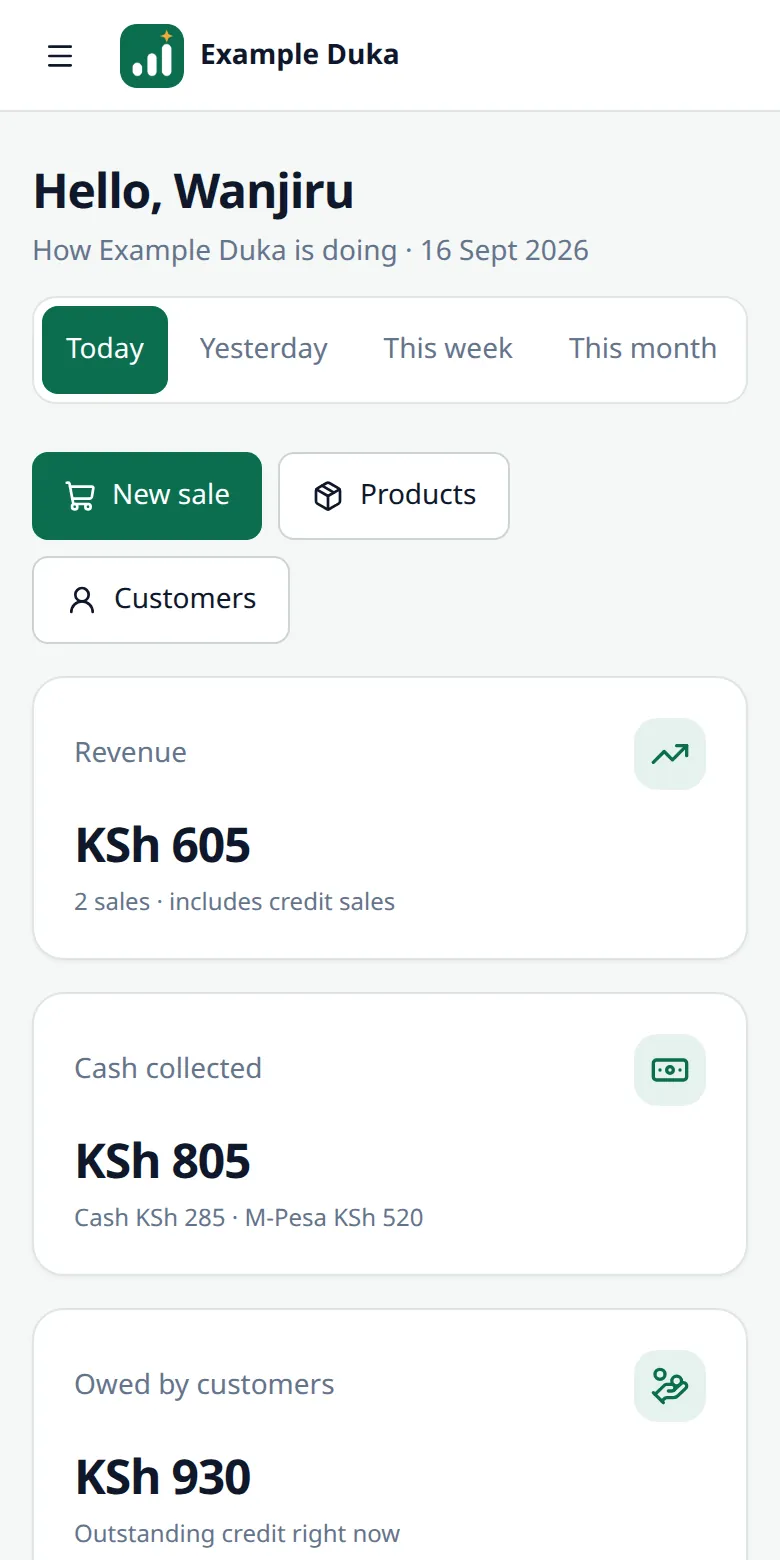
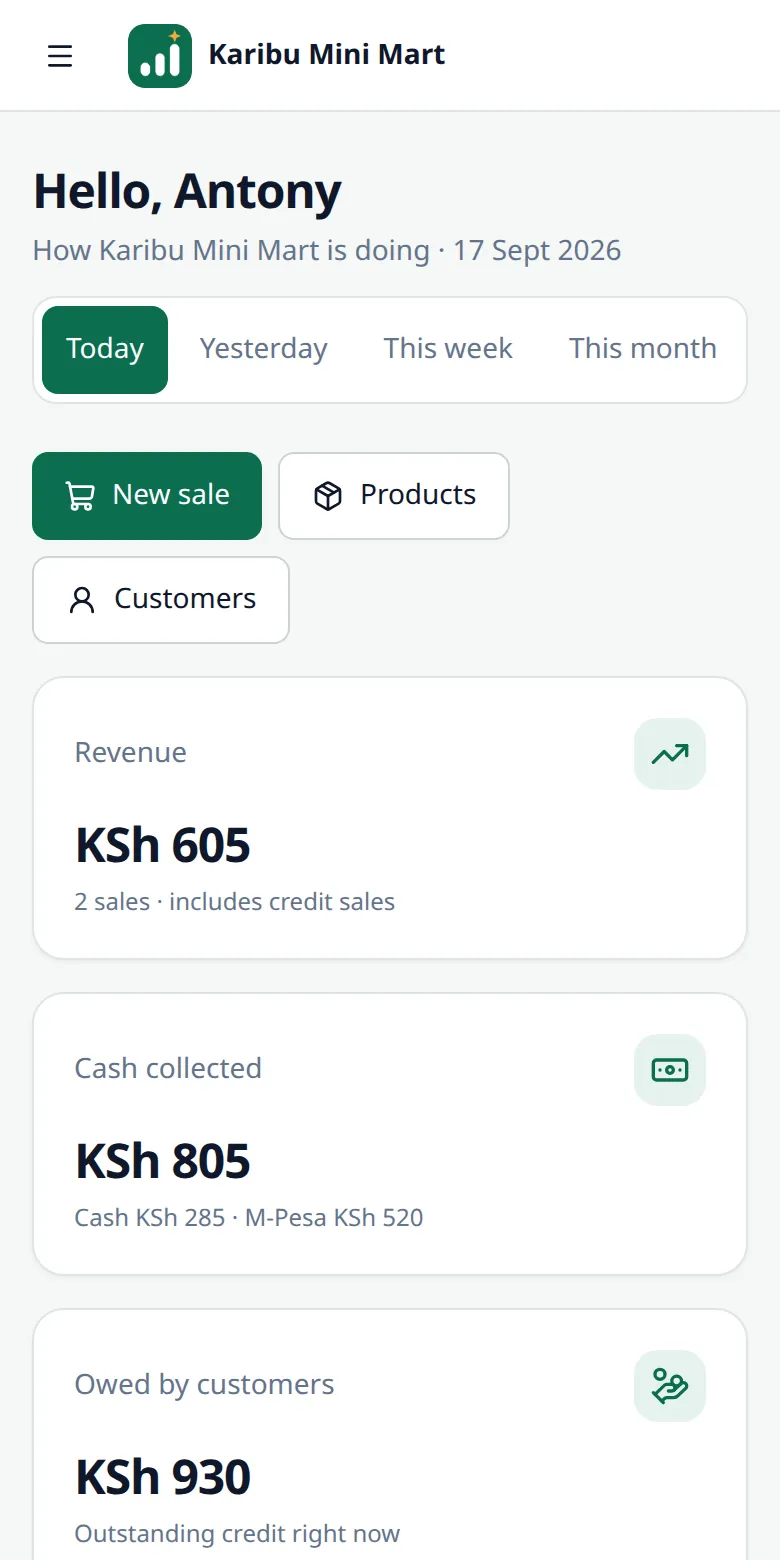
feat: add photography and a local example business to the homepage
Four Unsplash photos of Kenyan small businesses (hero, who-it's-for
mosaic, CTA backdrop), served as WebP at two widths each with credits in
public/marketing/CREDITS.md. Product screenshots re-captured for Karibu
Mini Mart with Swahili/English product and customer names.

Changed region(s): [[0.1231, 0.0923, 0.8, 0.1846], [0.1538, 0.0, 0.5846, 0.0615]]

diff --git a/frontend/src/features/marketing/HomePage.tsx b/frontend/src/features/marketing/HomePage.tsx
@@ -90,7 +90,7 @@ export default function HomePage() {
       <main id="main" className="flex-1">
         {/* Hero */}
         <Section className="pt-10 sm:pt-16">
-          <div className="grid items-center gap-10 lg:grid-cols-[5fr_6fr] lg:gap-12">
+          <div className="grid items-center gap-12 lg:grid-cols-[5fr_6fr] lg:gap-12">
             <div>
               <p className="mb-3 text-sm font-semibold text-primary">For Kenyan small businesses</p>
               <h1 className="text-3xl font-semibold tracking-tight sm:text-4xl lg:text-5xl">Know your business. Run it with confidence.</h1>
@@ -102,12 +102,15 @@ export default function HomePage() {
               </div>
               <p className="mt-4 text-sm text-muted-foreground">Free to try. Works on your phone. Cash, M-Pesa and credit built in.</p>
             </div>
-            <figure className="min-w-0">
-              <div className="overflow-hidden rounded-xl border border-border bg-card shadow-md">
-                <img src="/marketing/dashboard.webp" width={1280} height={800} alt="The SokoWise dashboard for an example duka: revenue, cash collected, what customers owe, gross profit, expenses and net profit for the month, with low-stock products and top debtors." className="block h-auto w-full" fetchPriority="high" />
-              </div>
-              <figcaption className="mt-2 text-center text-xs text-muted-foreground">The owner's dashboard, shown with example data.</figcaption>
-            </figure>
+            <div className="relative mx-auto mb-10 w-full max-w-xl lg:max-w-none">
+              <img src="/marketing/owner-phone-1400.webp" srcSet="/marketing/owner-phone-800.webp 800w, /marketing/owner-phone-1400.webp 1400w" sizes="(min-width: 1024px) 600px, 100vw" width={1400} height={1050} fetchPriority="high" alt="A food-stall owner in an apron smiling at his phone behind his counter." className="block aspect-[4/3] w-full rounded-2xl object-cover shadow-md" />
+              <figure className="absolute -bottom-10 left-4 w-32 sm:w-40 lg:-left-6 lg:w-44">
+                <div className="overflow-hidden rounded-2xl border border-border bg-card shadow-lg">
+                  <img src="/marketing/dashboard-phone.webp" width={780} height={1560} alt="The SokoWise dashboard on a phone for Karibu Mini Mart, an example business: today's revenue, cash collected and what customers owe, with products running low." className="block h-auto w-full" />
+                </div>
+                <figcaption className="mt-1.5 text-center text-[11px] text-muted-foreground">Example data</figcaption>
+              </figure>
+            </div>
           </div>
         </Section>
 
@@ -160,20 +163,29 @@ export default function HomePage() {
 
         {/* Who it's for */}
         <Section id="businesses" tone="card">
-          <SectionHeading eyebrow="Who it's for" title="Made for the businesses on every Kenyan street." lead="If it sells products or services and needs to keep track of money, stock and customers, SokoWise fits." />
-          <ul className="grid gap-4 sm:grid-cols-2 lg:grid-cols-3">
-            {BUSINESSES.map((b) => (
-              <li key={b.title} className="flex gap-4 rounded-xl border border-border bg-background p-5">
-                <span className="flex size-10 shrink-0 items-center justify-center rounded-lg bg-accent-soft text-accent-foreground" aria-hidden="true">
-                  <b.icon className="size-5" />
-                </span>
-                <div>
-                  <h3 className="font-semibold">{b.title}</h3>
-                  <p className="mt-1 text-sm text-muted-foreground">{b.text}</p>
-                </div>
-              </li>
-            ))}
-          </ul>
+          <div className="grid gap-10 lg:grid-cols-[6fr_5fr] lg:gap-16">
+            <div>
+              <SectionHeading eyebrow="Who it's for" title="Made for the businesses on every Kenyan street." lead="If it sells products or services and needs to keep track of money, stock and customers, SokoWise fits." />
+              <ul className="grid gap-4 sm:grid-cols-2">
+                {BUSINESSES.map((b) => (
+                  <li key={b.title} className="flex gap-4 rounded-xl border border-border bg-background p-5">
+                    <span className="flex size-10 shrink-0 items-center justify-center rounded-lg bg-accent-soft text-accent-foreground" aria-hidden="true">
+                      <b.icon className="size-5" />
+                    </span>
+                    <div>
+                      <h3 className="font-semibold">{b.title}</h3>
+                      <p className="mt-1 text-sm text-muted-foreground">{b.text}</p>
+                    </div>
+                  </li>
+                ))}
+              </ul>
+            </div>
+            <div className="grid grid-cols-[3fr_2fr] gap-3 sm:gap-4 lg:self-center">
+              <img src="/marketing/cook-stall-900.webp" srcSet="/marketing/cook-stall-450.webp 450w, /marketing/cook-stall-900.webp 900w" sizes="(min-width: 1024px) 300px, 55vw" width={900} height={1200} loading="lazy" alt="A street-food cook turning chapatis on a pan at her roadside stall." className="row-span-2 aspect-[3/4] h-full w-full rounded-2xl object-cover" />
+              <img src="/marketing/vendor-fruit-1000.webp" srcSet="/marketing/vendor-fruit-600.webp 600w, /marketing/vendor-fruit-1000.webp 1000w" sizes="(min-width: 1024px) 200px, 40vw" width={1000} height={750} loading="lazy" alt="A fruit vendor at his stall, phone in hand, giving a thumbs-up." className="aspect-[4/3] w-full rounded-2xl object-cover" />
+              <p className="flex items-center rounded-2xl bg-primary p-4 text-sm font-medium leading-snug text-primary-foreground sm:text-base">Cash, M-Pesa and trust — SokoWise keeps track of all three.</p>
+            </div>
+          </div>
         </Section>
 
         {/* How it works */}
@@ -197,23 +209,23 @@ export default function HomePage() {
 
         {/* Product preview */}
         <Section tone="card">
-          <div className="grid items-center gap-10 lg:grid-cols-[6fr_5fr] lg:gap-16">
-            <div className="grid grid-cols-2 gap-4 sm:gap-6">
+          <div className="grid items-center gap-10 lg:grid-cols-[7fr_4fr] lg:gap-16">
+            <div className="grid grid-cols-[1fr_auto] items-end gap-4 sm:gap-6">
               <figure className="min-w-0">
+                <div className="overflow-hidden rounded-xl border border-border bg-background shadow-md">
+                  <img src="/marketing/dashboard.webp" width={1280} height={800} loading="lazy" alt="The SokoWise dashboard for Karibu Mini Mart, an example business: revenue, cash collected, what customers owe, gross profit, expenses and net profit for the month, with low-stock products and top debtors." className="block h-auto w-full" />
+                </div>
+                <figcaption className="mt-2 text-center text-xs text-muted-foreground">The owner's dashboard, shown with example data.</figcaption>
+              </figure>
+              <figure className="w-28 sm:w-40">
                 <div className="overflow-hidden rounded-2xl border border-border bg-background shadow-md">
                   <img src="/marketing/sell-phone.webp" width={780} height={1560} loading="lazy" alt="Taking payment for a KSh 280 sale on a phone: KSh 200 by M-Pesa with the code noted for the records, KSh 80 in cash, marked fully paid." className="block h-auto w-full" />
                 </div>
                 <figcaption className="mt-2 text-center text-xs text-muted-foreground">Recording a sale</figcaption>
               </figure>
-              <figure className="min-w-0">
-                <div className="overflow-hidden rounded-2xl border border-border bg-background shadow-md">
-                  <img src="/marketing/dashboard-phone.webp" width={780} height={1560} loading="lazy" alt="The dashboard on a phone: today's revenue, cash collected and what customers owe, with products running low." className="block h-auto w-full" />
-                </div>
-                <figcaption className="mt-2 text-center text-xs text-muted-foreground">Today at a glance</figcaption>
-              </figure>
             </div>
             <div>
-              <SectionHeading eyebrow="The real thing" title="This is the actual SokoWise, on a phone." lead="What you see here is the app itself with example data — the same screens you get after signing up." />
+              <SectionHeading eyebrow="The real thing" title="This is the actual SokoWise." lead="What you see here is the app itself with example data — the same screens you get after signing up, on a phone or a laptop." />
               <ul className="space-y-3 text-sm text-muted-foreground sm:text-base">
                 <li>Tap products to build the sale; the total and change are worked out for you.</li>
                 <li>Choose cash, M-Pesa or credit — or split between them.</li>
@@ -241,15 +253,19 @@ export default function HomePage() {
         </Section>
 
         {/* Final CTA */}
-        <Section tone="dark">
-          <div className="mx-auto max-w-2xl text-center">
-            <h2 className="text-2xl font-semibold tracking-tight sm:text-3xl">Ready to understand your business better?</h2>
-            <p className="mt-3 text-base text-secondary-foreground/80 sm:text-lg">Start keeping your sales, stock, customers and expenses in one place. It takes a few minutes to set up.</p>
-            <div className="mt-8 flex justify-center">
-              <CtaButtons large invert />
+        <section className="relative isolate overflow-hidden bg-secondary py-16 text-secondary-foreground sm:py-24">
+          <img src="/marketing/market-1600.webp" srcSet="/marketing/market-1000.webp 1000w, /marketing/market-1600.webp 1600w" sizes="100vw" width={1600} height={900} loading="lazy" alt="" aria-hidden="true" className="absolute inset-0 -z-20 h-full w-full object-cover opacity-40" />
+          <div className="absolute inset-0 -z-10 bg-gradient-to-b from-secondary/55 via-secondary/70 to-secondary/95" aria-hidden="true" />
+          <div className="mx-auto w-full max-w-6xl px-4 sm:px-6">
+            <div className="mx-auto max-w-2xl text-center">
+              <h2 className="text-2xl font-semibold tracking-tight sm:text-3xl">Ready to understand your business better?</h2>
+              <p className="mt-3 text-base text-secondary-foreground/80 sm:text-lg">Start keeping your sales, stock, customers and expenses in one place. It takes a few minutes to set up.</p>
+              <div className="mt-8 flex justify-center">
+                <CtaButtons large invert />
+              </div>
             </div>
           </div>
-        </Section>
+        </section>
       </main>
 
       <footer className="border-t border-border bg-card">
@@ -273,7 +289,7 @@ export default function HomePage() {
           </nav>
         </div>
         <div className="border-t border-border">
-          <p className="mx-auto w-full max-w-6xl px-4 py-4 text-xs text-muted-foreground sm:px-6">© {new Date().getFullYear()} SokoWise. Kenya.</p>
+          <p className="mx-auto w-full max-w-6xl px-4 py-4 text-xs text-muted-foreground sm:px-6">© {new Date().getFullYear()} SokoWise. Kenya. · Photos via <a href="https://unsplash.com/license" className="underline hover:text-foreground">Unsplash</a>.</p>
         </div>
       </footer>
     </div>
@@ -283,9 +299,9 @@ export default function HomePage() {
 /** A small, clearly labelled example of one sale, built from the app's own components. */
 function ExampleSaleCard() {
   const rows = [
-    ['Sugar 1kg × 2', '320'],
-    ['Milk 500ml × 3', '180'],
-    ['Bar soap × 1', '140'],
+    ['Sukari 1kg × 2', '320'],
+    ['Maziwa 500ml × 3', '180'],
+    ['Sabuni ya bar × 1', '140'],
   ] as const
   return (
     <figure className="mx-auto w-full max-w-sm">

diff --git a/frontend/src/features/marketing/HomePage.test.tsx b/frontend/src/features/marketing/HomePage.test.tsx
@@ -26,7 +26,7 @@ describe('HomePage', () => {
   it('renders every section for an anonymous visitor without calling the API', () => {
     const fetchMock = renderHome()
     expect(screen.getByRole('heading', { level: 1 })).toHaveTextContent('Know your business')
-    for (const name of ['Everything you need to keep your business on track.', 'Built around how small businesses here actually run.', 'Made for the businesses on every Kenyan street.', 'Up and running in an afternoon.', 'This is the actual SokoWise, on a phone.', 'Simple, honest and built for the counter.', 'Ready to understand your business better?']) {
+    for (const name of ['Everything you need to keep your business on track.', 'Built around how small businesses here actually run.', 'Made for the businesses on every Kenyan street.', 'Up and running in an afternoon.', 'This is the actual SokoWise.', 'Simple, honest and built for the counter.', 'Ready to understand your business better?']) {
       expect(screen.getByRole('heading', { level: 2, name })).toBeInTheDocument()
     }
     expect(screen.getByRole('main')).toBeInTheDocument()
@@ -71,9 +71,17 @@ describe('HomePage', () => {
     expect(screen.queryByRole('navigation', { name: 'Site' })?.querySelector('a[href="/login"]')).toBeNull()
   })
 
-  it('labels product images as example data', () => {
+  it('labels product images as example data and describes the photographs', () => {
     renderHome()
-    expect(screen.getByRole('img', { name: /example duka/i })).toHaveAttribute('src', '/marketing/dashboard.webp')
+    const productShots = screen.getAllByRole('img', { name: /Karibu Mini Mart, an example business/i })
+    expect(productShots.map((img) => img.getAttribute('src'))).toEqual(['/marketing/dashboard-phone.webp', '/marketing/dashboard.webp'])
+    expect(screen.getByText('Example data')).toBeInTheDocument()
     expect(screen.getByText('The owner\'s dashboard, shown with example data.')).toBeInTheDocument()
+    for (const name of [/food-stall owner/i, /street-food cook/i, /fruit vendor/i]) {
+      const photo = screen.getByRole('img', { name })
+      expect(photo).toHaveAttribute('srcset')
+      expect(photo.getAttribute('src')).toMatch(/^\/marketing\/.+\.webp$/)
+    }
+    expect(screen.getByRole('link', { name: 'Unsplash' })).toHaveAttribute('href', 'https://unsplash.com/license')
   })
 })

diff --git a/frontend/public/marketing/CREDITS.md b/frontend/public/marketing/CREDITS.md
@@ -1,0 +1,15 @@
+# Marketing imagery
+
+Product screenshots (`dashboard*.webp`, `sell-phone.webp`) are captures of SokoWise itself with an
+explicitly named example business (Karibu Mini Mart, owner "Antony"); they contain no real customer data.
+
+Photographs are from Unsplash and used under the Unsplash License
+(https://unsplash.com/license — free for commercial use, no permission needed, attribution
+appreciated). Each was downloaded, cropped and re-encoded to WebP at the sizes used on the page.
+
+| File | Source | Shows |
+|---|---|---|
+| `owner-phone-*.webp` | https://unsplash.com/photos/1687422808248-f807f4ea2a2e | Food-stall owner checking his phone |
+| `vendor-fruit-*.webp` | https://unsplash.com/photos/1687422808565-929533931584 | Fruit vendor, phone in hand |
+| `cook-stall-*.webp` | https://unsplash.com/photos/1747359636521-5a3f1cf37606 | Street-food cook at her stall |
+| `market-*.webp` | https://unsplash.com/photos/1558907530-83566904e778 | Covered produce market |
